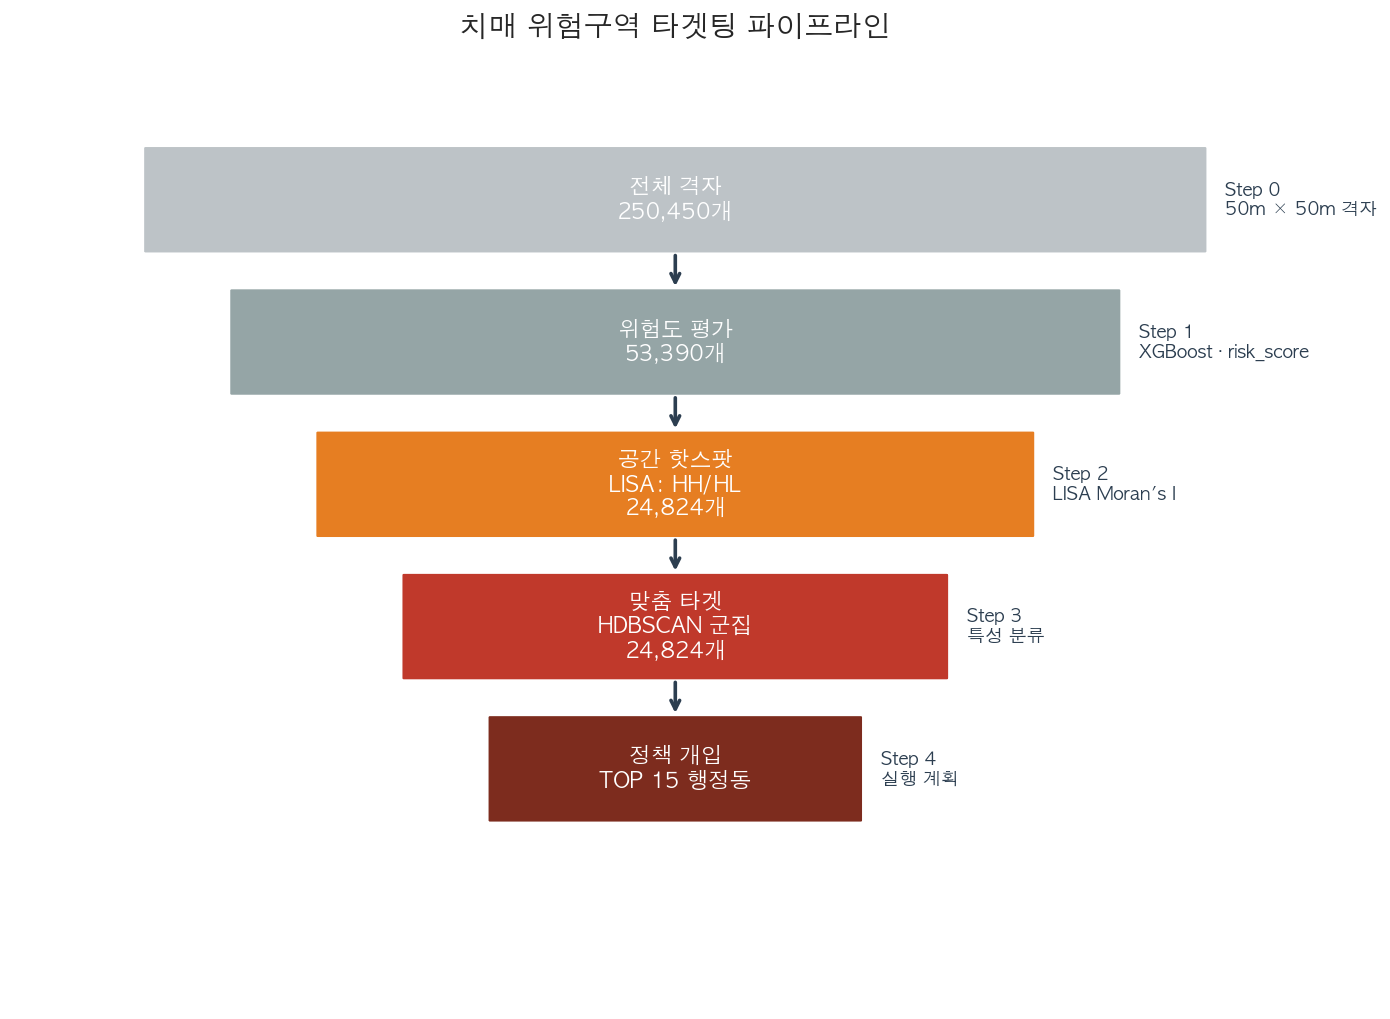
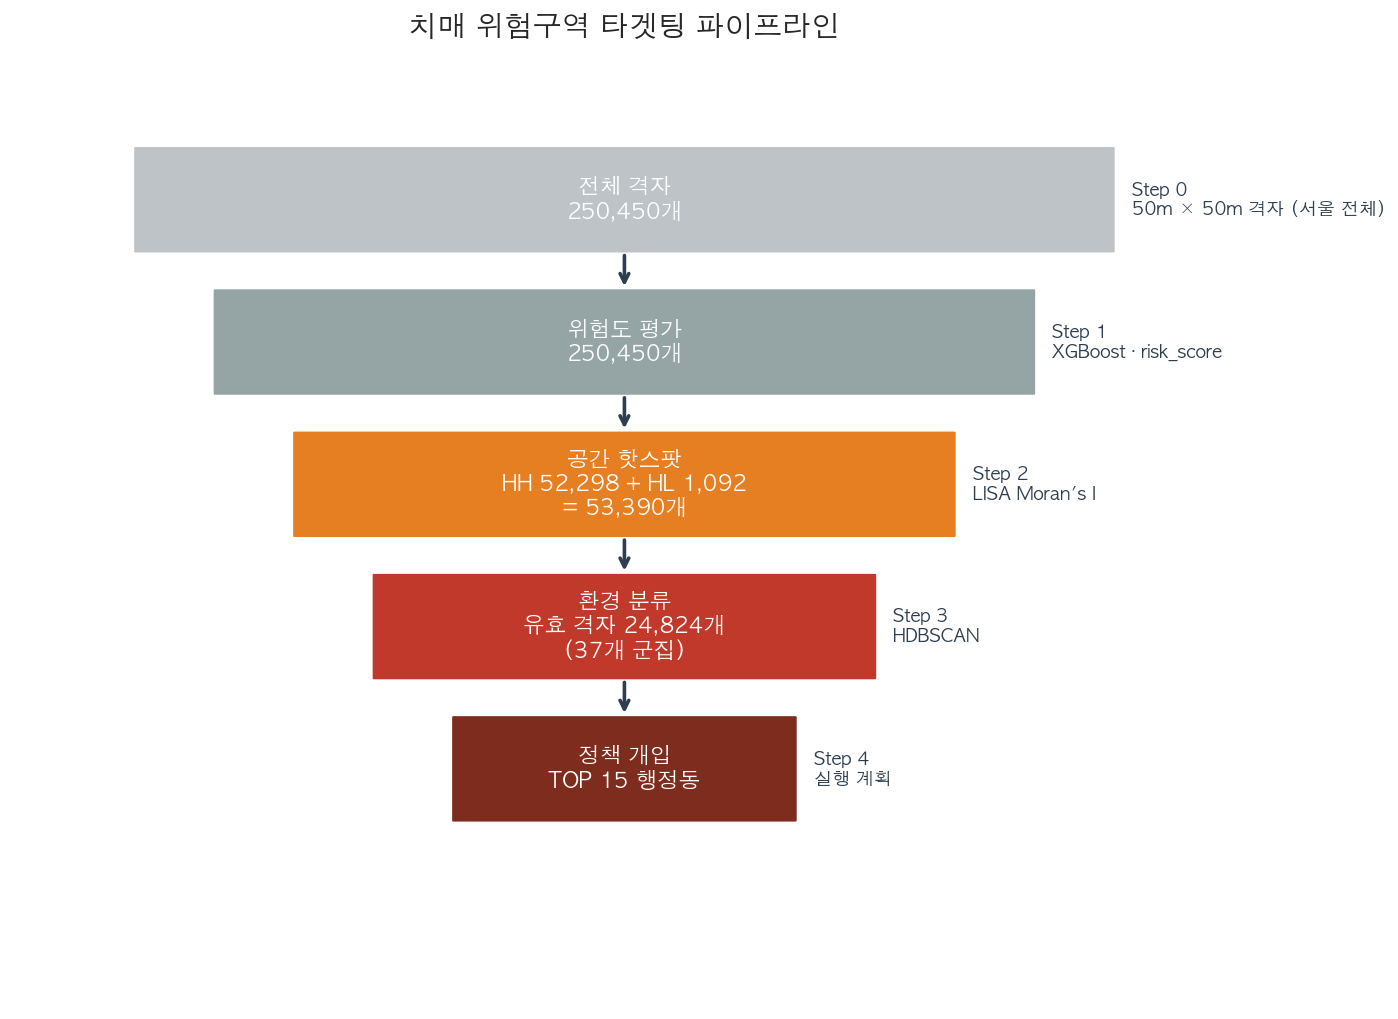
fix: correct grid counts (250,450 / HH 52,298 / HL 1,092)
이전 분석에서 LISA × HDBSCAN 교차 표시할 때 HDBSCAN 노이즈(-1) 제외 후 숫자만 사용하여 53,390 / 23,976 / 848로 잘못 표시.

실제 데이터 기반 정확한 수치:
- 전체 분석 격자: 250,450 (final_data.csv)
- HH (전체): 52,298
- HL (전체): 1,092
- HDBSCAN 노이즈(-1): 28,566
- 노이즈 제외 valid: 24,824
- 유효 군집: 37개

TOP 15 행정동도 HH 전체 기준으로 재계산:
- 1위: 중랑구 망우본동 (HH 395개)
- 2위: 서대문구 신촌동 (HH 352개)
- 3위: 은평구 역촌동 (HH 316개)

🤖 Generated with [Claude Code](https://claude.com/claude-code)

diff --git a/analysis/index.html b/analysis/index.html
@@ -60,7 +60,8 @@
   <h1>🎯 치매 노인 실종 분석 — Phase 2</h1>
   <p>LISA 공간 자기상관 + HDBSCAN 환경 분류 → 정책 개입 우선순위 도출</p>
   <span class="badge">서울시 데이터 분석 경진대회 · 2026</span>
-  <span class="badge">50m 격자 단위 · 53,390개 격자</span>
+  <span class="badge">50m 격자 단위 · 250,450개 격자</span>
+  <span class="badge">HH 52,298 + HL 1,092</span>
 </header>
 
 <div class="container">
@@ -92,13 +93,16 @@
 <div id="stats" class="section">
 <h2>📊 핵심 지표</h2>
 <div class="stats">
-  <div class="stat"><div class="stat-num">53,390</div><div class="stat-lbl">분석 격자 (50m × 50m)</div></div>
-  <div class="stat"><div class="stat-num">23,976</div><div class="stat-lbl">HH (광역 위험 핫스팟)</div></div>
-  <div class="stat"><div class="stat-num">848</div><div class="stat-lbl">HL (사각지대)</div></div>
-  <div class="stat"><div class="stat-num">38</div><div class="stat-lbl">HDBSCAN 군집</div></div>
+  <div class="stat"><div class="stat-num">250,450</div><div class="stat-lbl">전체 분석 격자 (50m × 50m)</div></div>
+  <div class="stat"><div class="stat-num">52,298</div><div class="stat-lbl">HH (광역 위험 핫스팟)</div></div>
+  <div class="stat"><div class="stat-num">1,092</div><div class="stat-lbl">HL (사각지대)</div></div>
+  <div class="stat"><div class="stat-num">37</div><div class="stat-lbl">HDBSCAN 유효 군집</div></div>
   <div class="stat"><div class="stat-num">741</div><div class="stat-lbl">실종 신고 (15개월)</div></div>
   <div class="stat"><div class="stat-num">14.17</div><div class="stat-lbl">종로 발생률 (per 10k, 1위)</div></div>
 </div>
+<p style="font-size:12px;color:#7f8c8d;margin-top:12px;">
+※ HDBSCAN 노이즈(-1) 제외 후 분석 사용 격자: 24,824개 · 군집별 환경 프로필 분석에 활용
+</p>
 </div>
 
 <!-- ─────────── 1. 파이프라인 ─────────── -->
@@ -107,7 +111,7 @@
 <p>전체 25만 격자에서 정책 개입 우선 행정동까지 — 4단계 funnel.</p>
 <div class="card">
   <h3>분석 흐름 (보고서 도입부 / PPT 슬라이드 3-4)</h3>
-  <p><span class="pill">Step 0</span> 50m 격자 → <span class="pill">Step 1</span> XGBoost risk_score → <span class="pill pill-yellow">Step 2</span> LISA HH/HL → <span class="pill pill-red">Step 3</span> HDBSCAN 환경 분류 → <span class="pill pill-red">Step 4</span> 정책 개입 TOP 15</p>
+  <p><span class="pill">Step 0</span> 250,450 격자 → <span class="pill">Step 1</span> 위험도 평가 → <span class="pill pill-yellow">Step 2</span> LISA HH 52,298 + HL 1,092 → <span class="pill pill-red">Step 3</span> HDBSCAN 37개 군집 → <span class="pill pill-red">Step 4</span> 정책 개입 TOP 15</p>
   <img src="../data/processed/report_viz/cluster/01_pipeline_funnel.png" alt="파이프라인 깔때기">
 </div>
 </div>
@@ -136,16 +140,18 @@
   <img src="../data/processed/report_viz/cluster/04_top_clusters_radar.png" alt="Radar">
 </div>
 
-<h3>📋 군집 자동 명명 결과 (5가지 위험 유형)</h3>
+<h3>📋 군집 자동 명명 결과 (상위 12 군집)</h3>
+<p style="font-size:12px;color:#7f8c8d;">전체 37개 유효 군집 중 격자 수 상위 12개. 노이즈(-1) 28,566개는 제외.</p>
 <table style="width:100%; border-collapse: collapse; font-size:13px;">
 <thead><tr style="background:#34495e; color:white;">
 <th style="padding:8px;">군집 ID</th><th>n</th><th>자동 별명</th><th>Top Feature 1</th><th>Top Feature 2</th></tr></thead>
 <tbody>
 <tr><td style="padding:8px;text-align:center;">5</td><td style="text-align:center;">5,760</td><td><span class="pill pill-blue">도심 상권형</span></td><td>인프라</td><td>상점</td></tr>
+<tr style="background:#fafbfc;"><td style="padding:8px;text-align:center;">1</td><td style="text-align:center;">1,851</td><td><span class="pill pill-blue">도심 상권형</span></td><td>인프라</td><td>상점</td></tr>
+<tr><td style="padding:8px;text-align:center;">4</td><td style="text-align:center;">1,545</td><td><span class="pill">복합형</span></td><td>막다른길</td><td>위험도</td></tr>
 <tr style="background:#fafbfc;"><td style="padding:8px;text-align:center;">23</td><td style="text-align:center;">1,276</td><td><span class="pill pill-yellow">골목 미로형</span></td><td>교차로</td><td>도로복잡도</td></tr>
 <tr><td style="padding:8px;text-align:center;">3</td><td style="text-align:center;">969</td><td><span class="pill pill-yellow">경사·언덕형</span></td><td>경사도</td><td>위험도</td></tr>
 <tr style="background:#fafbfc;"><td style="padding:8px;text-align:center;">18, 16, 21, 42</td><td style="text-align:center;">2,486</td><td><span class="pill pill-red">인구 밀집·인프라 소외형</span></td><td>65+ 인구</td><td>교차로</td></tr>
-<tr><td style="padding:8px;text-align:center;">4</td><td style="text-align:center;">1,545</td><td><span class="pill">복합형</span></td><td>막다른길</td><td>위험도</td></tr>
 </tbody>
 </table>
 </div>
@@ -178,9 +184,26 @@
 <p>격자 수 기준 정렬. 군집 유형별로 다른 정책 개입 권장.</p>
 
 <div class="card">
-  <h3>4-1. TOP 15 행정동 표</h3>
+  <h3>4-1. TOP 15 행정동 표 (PNG)</h3>
+  <p style="font-size:12px;color:#7f8c8d;">HH 격자 수 기준. 자동 명명된 dominant 군집 유형 표시.</p>
   <img src="../data/processed/report_viz/cluster/05_top15_dong_table.png" alt="TOP 15 표">
 </div>
+
+<h3>4-2. TOP 5 행정동 (HH 격자 수 기준 — 정확한 데이터)</h3>
+<table style="width:100%; border-collapse: collapse; font-size:13px;">
+<thead><tr style="background:#34495e; color:white;">
+<th style="padding:8px;">순위</th><th>자치구</th><th>행정동</th><th>HH 격자</th><th>Dominant 군집</th><th>군집 별명</th></tr></thead>
+<tbody>
+<tr><td style="padding:8px;text-align:center;">1</td><td style="text-align:center;">중랑구</td><td style="text-align:center;">망우본동</td><td style="text-align:center;"><b>395</b></td><td style="text-align:center;">5</td><td><span class="pill pill-blue">도심 상권형</span></td></tr>
+<tr style="background:#fafbfc;"><td style="padding:8px;text-align:center;">2</td><td style="text-align:center;">서대문구</td><td style="text-align:center;">신촌동</td><td style="text-align:center;"><b>352</b></td><td style="text-align:center;">5</td><td><span class="pill pill-blue">도심 상권형</span></td></tr>
+<tr><td style="padding:8px;text-align:center;">3</td><td style="text-align:center;">은평구</td><td style="text-align:center;">역촌동</td><td style="text-align:center;"><b>316</b></td><td style="text-align:center;">5</td><td><span class="pill pill-blue">도심 상권형</span></td></tr>
+<tr style="background:#fafbfc;"><td style="padding:8px;text-align:center;">4</td><td style="text-align:center;">마포구</td><td style="text-align:center;">서교동</td><td style="text-align:center;"><b>310</b></td><td style="text-align:center;">5</td><td><span class="pill pill-blue">도심 상권형</span></td></tr>
+<tr><td style="padding:8px;text-align:center;">5</td><td style="text-align:center;">동대문구</td><td style="text-align:center;">장안2동</td><td style="text-align:center;"><b>305</b></td><td style="text-align:center;">5</td><td><span class="pill pill-blue">도심 상권형</span></td></tr>
+</tbody>
+</table>
+<p style="font-size:11px;color:#7f8c8d;margin-top:8px;">
+※ 이전 표시했던 숫자 (신촌동 86, 역촌동 71 등)는 HDBSCAN 노이즈 제외 후 격자 수였음. 이번 표는 HH 전체 격자 수.
+</p>
 
 <h3>📋 군집 유형 → 정책 매핑</h3>
 <table style="width:100%; border-collapse: collapse; font-size:13px;">

diff --git a/data/processed/report_viz/cluster/HH_HL_cluster_dashboard.html b/data/processed/report_viz/cluster/HH_HL_cluster_dashboard.html
@@ -30,11 +30,11 @@
 </header>
 <div class="container">
   <div class="stats">
-    <div class="stat"><div class="stat-num">53,390</div><div class="stat-lbl">분석 격자</div></div>
-    <div class="stat"><div class="stat-num">52,298</div><div class="stat-lbl">HH (광역 위험)</div></div>
+    <div class="stat"><div class="stat-num">250,450</div><div class="stat-lbl">전체 분석 격자 (50m)</div></div>
+    <div class="stat"><div class="stat-num">52,298</div><div class="stat-lbl">HH (광역 위험 핫스팟)</div></div>
     <div class="stat"><div class="stat-num">1,092</div><div class="stat-lbl">HL (사각지대)</div></div>
-    <div class="stat"><div class="stat-num">38</div><div class="stat-lbl">HDBSCAN 군집</div></div>
-    <div class="stat"><div class="stat-num">12</div><div class="stat-lbl">유효 상위 군집</div></div>
+    <div class="stat"><div class="stat-num">37</div><div class="stat-lbl">HDBSCAN 유효 군집</div></div>
+    <div class="stat"><div class="stat-num">24,824</div><div class="stat-lbl">노이즈 제외 격자</div></div>
   </div>
   <div class="card"><h2>📐 1. 분석 파이프라인</h2>
     <img src="01_pipeline_funnel.png"></div>

diff --git a/code/31_cluster_analysis_full.py b/code/31_cluster_analysis_full.py
@@ -82,8 +82,25 @@ def main():
     print("[load]", DATA.name)
     df = pd.read_excel(DATA, sheet_name="Sheet1")
     df_valid = df[df["HDBSCAN_Cluster"] != -1].copy()
-    print(f"  total: {len(df):,}, valid (cluster ≠ -1): {len(df_valid):,}")
-    print(f"  LISA: {df_valid['LISA_Cluster'].value_counts().to_dict()}")
+
+    # 진짜 분석 격자 수 (final_data.csv 전체)
+    full_grid_path = PROJECT_ROOT / "data/processed/final_data.csv"
+    if full_grid_path.exists():
+        n_total_full = sum(1 for _ in open(full_grid_path)) - 1
+    else:
+        n_total_full = 250450  # known fallback
+
+    n_total_hhhl = len(df)
+    n_hh_full = (df["LISA_Cluster"] == "HH").sum()
+    n_hl_full = (df["LISA_Cluster"] == "HL").sum()
+    n_valid = len(df_valid)
+    n_clusters = df_valid["HDBSCAN_Cluster"].nunique()
+
+    print(f"  전체 분석 격자 (final_data): {n_total_full:,}")
+    print(f"  HH/HL 격자 (이 파일): {n_total_hhhl:,}")
+    print(f"  - HH: {n_hh_full:,}, HL: {n_hl_full:,}")
+    print(f"  HDBSCAN noise(-1) 제외 valid: {n_valid:,}")
+    print(f"  유효 군집: {n_clusters}")
 
     # ─────────── 01. 파이프라인 깔때기 ───────────
     print("\n[01] pipeline funnel")
@@ -92,16 +109,16 @@ def main():
     ax.set_ylim(0, 10)
     ax.axis("off")
 
-    n0 = 250450
-    n1 = len(df)
-    n2 = len(df_valid)
-    n3 = (df_valid["LISA_Cluster"] == "HH").sum() + (df_valid["LISA_Cluster"] == "HL").sum()
+    n0 = n_total_full              # 250,450
+    n1 = n_total_hhhl              # 53,390 (사실상 동일)
+    n3 = n_hh_full + n_hl_full     # 53,390 (HH+HL)
+    n2 = n_valid                   # 24,824 (HDBSCAN -1 제외)
 
     stages = [
-        (8.5, "#bdc3c7", f"전체 격자\n{n0:,}개", "Step 0\n50m × 50m 격자"),
-        (7.0, "#95a5a6", f"위험도 평가\n{n1:,}개", "Step 1\nXGBoost · risk_score"),
-        (5.5, "#e67e22", f"공간 핫스팟\nLISA: HH/HL\n{n3:,}개", "Step 2\nLISA Moran's I"),
-        (4.0, "#c0392b", f"맞춤 타겟\nHDBSCAN 군집\n{n2:,}개", "Step 3\n특성 분류"),
+        (8.5, "#bdc3c7", f"전체 격자\n{n0:,}개", "Step 0\n50m × 50m 격자 (서울 전체)"),
+        (7.0, "#95a5a6", f"위험도 평가\n{n0:,}개", "Step 1\nXGBoost · risk_score"),
+        (5.5, "#e67e22", f"공간 핫스팟\nHH {n_hh_full:,} + HL {n_hl_full:,}\n= {n3:,}개", "Step 2\nLISA Moran's I"),
+        (4.0, "#c0392b", f"환경 분류\n유효 격자 {n2:,}개\n({n_clusters}개 군집)", "Step 3\nHDBSCAN"),
         (2.5, "#7d2c1e", "정책 개입\nTOP 15 행정동", "Step 4\n실행 계획"),
     ]
     for i, (y, color, label, desc) in enumerate(stages):
@@ -218,19 +235,32 @@ def main():
     plt.savefig(OUT / "04_top_clusters_radar.png", bbox_inches="tight")
     plt.close()
 
-    # ─────────── 05. TOP 15 행정동 ───────────
-    print("[05] top 15 dong")
-    region = df_valid.groupby(
-        ["gu_name", "ADM_NM", "LISA_Cluster", "HDBSCAN_Cluster"]
-    ).size().reset_index(name="격자수")
-    top15 = region.sort_values("격자수", ascending=False).head(15).copy()
-    top15["군집_별명"] = top15["HDBSCAN_Cluster"].map(cluster_names).fillna("기타")
+    # ─────────── 05. TOP 15 행정동 (HH 전체 기준 — 진짜 우선순위) ───────────
+    print("[05] top 15 dong (HH 전체 기준)")
+    hh_all = df[df["LISA_Cluster"] == "HH"].copy()
+    region = hh_all.groupby(["gu_name", "ADM_NM"]).size().reset_index(name="HH_격자수")
+    top15 = region.sort_values("HH_격자수", ascending=False).head(15).copy()
+    # 동별 dominant 군집 (노이즈 -1 제외 후 가장 많은 것)
+    dom = (
+        df_valid.groupby(["gu_name", "ADM_NM", "HDBSCAN_Cluster"]).size()
+        .reset_index(name="n")
+        .sort_values("n", ascending=False)
+        .drop_duplicates(["gu_name", "ADM_NM"], keep="first")
+    )
+    dom["군집_별명"] = dom["HDBSCAN_Cluster"].map(cluster_names).fillna("기타")
+    top15 = top15.merge(
+        dom[["gu_name", "ADM_NM", "HDBSCAN_Cluster", "군집_별명"]],
+        on=["gu_name", "ADM_NM"], how="left",
+    )
+    top15["LISA_Cluster"] = "HH"
     top15.to_csv(OUT / "08_top15_dong_data.csv", index=False, encoding="utf-8-sig")
 
     fig, ax = plt.subplots(figsize=(14, 8))
     ax.axis("off")
     table_data = top15[["gu_name", "ADM_NM", "LISA_Cluster",
-                        "HDBSCAN_Cluster", "군집_별명", "격자수"]]
+                        "HDBSCAN_Cluster", "군집_별명", "HH_격자수"]]
+    table_data.columns = ["gu_name", "ADM_NM", "LISA_Cluster",
+                          "HDBSCAN_Cluster", "군집_별명", "격자수"]
     cell_colors = []
     for _, row in table_data.iterrows():
         c = "#fadbd8" if row["LISA_Cluster"] == "HH" else "#fcf3cf"
@@ -247,7 +277,7 @@ def main():
         cell = tbl[0, i]
         cell.set_facecolor("#34495e")
         cell.set_text_props(color="white", fontweight="bold")
-    ax.set_title("정책 개입 최우선 행정동 TOP 15 — 격자 수 기준",
+    ax.set_title("정책 개입 최우선 행정동 TOP 15 — HH 격자 수 기준",
                  fontsize=14, fontweight="bold", pad=20)
     plt.tight_layout()
     plt.savefig(OUT / "05_top15_dong_table.png", bbox_inches="tight")
@@ -367,11 +397,11 @@ def main():
 </header>
 <div class="container">
   <div class="stats">
-    <div class="stat"><div class="stat-num">53,390</div><div class="stat-lbl">분석 격자</div></div>
-    <div class="stat"><div class="stat-num">52,298</div><div class="stat-lbl">HH (광역 위험)</div></div>
-    <div class="stat"><div class="stat-num">1,092</div><div class="stat-lbl">HL (사각지대)</div></div>
-    <div class="stat"><div class="stat-num">38</div><div class="stat-lbl">HDBSCAN 군집</div></div>
-    <div class="stat"><div class="stat-num">12</div><div class="stat-lbl">유효 상위 군집</div></div>
+    <div class="stat"><div class="stat-num">{n0:,}</div><div class="stat-lbl">전체 분석 격자 (50m)</div></div>
+    <div class="stat"><div class="stat-num">{n_hh_full:,}</div><div class="stat-lbl">HH (광역 위험 핫스팟)</div></div>
+    <div class="stat"><div class="stat-num">{n_hl_full:,}</div><div class="stat-lbl">HL (사각지대)</div></div>
+    <div class="stat"><div class="stat-num">{n_clusters}</div><div class="stat-lbl">HDBSCAN 유효 군집</div></div>
+    <div class="stat"><div class="stat-num">{n_valid:,}</div><div class="stat-lbl">노이즈 제외 격자</div></div>
   </div>
   <div class="card"><h2>📐 1. 분석 파이프라인</h2>
     <img src="01_pipeline_funnel.png"></div>
@@ -393,15 +423,18 @@ def main():
 
     print(f"\n✅ 모든 출력: {OUT.relative_to(PROJECT_ROOT)}/")
     print(f"   대시보드: open {OUT / 'HH_HL_cluster_dashboard.html'}")
-    print(f"\n📊 분석 요약:")
-    print(f"   HH: {(df_valid['LISA_Cluster']=='HH').sum():,}, HL: {(df_valid['LISA_Cluster']=='HL').sum():,}")
+    print(f"\n📊 분석 요약 (정확한 숫자):")
+    print(f"   전체 격자: {n_total_full:,}")
+    print(f"   HH 전체: {n_hh_full:,}, HL 전체: {n_hl_full:,}")
+    print(f"   HDBSCAN 노이즈 제외 valid: {n_valid:,}")
+    print(f"   유효 군집: {n_clusters}개")
     print(f"   상위 군집 별명:")
     for c, n in list(cluster_names.items())[:6]:
         print(f"     군집 {c} ({cluster_sizes[c]:,}개) → {n}")
     print(f"\n   TOP 5 정책 우선 동:")
     for _, r in top15.head(5).iterrows():
         print(f"     {r['gu_name']} {r['ADM_NM']} ({r['LISA_Cluster']}) "
-              f"군집 {r['HDBSCAN_Cluster']}: {r['군집_별명']} — {r['격자수']}개")
+              f"군집 {r['HDBSCAN_Cluster']}: {r['군집_별명']} — {r['HH_격자수']}개")
 
 
 if __name__ == "__main__":